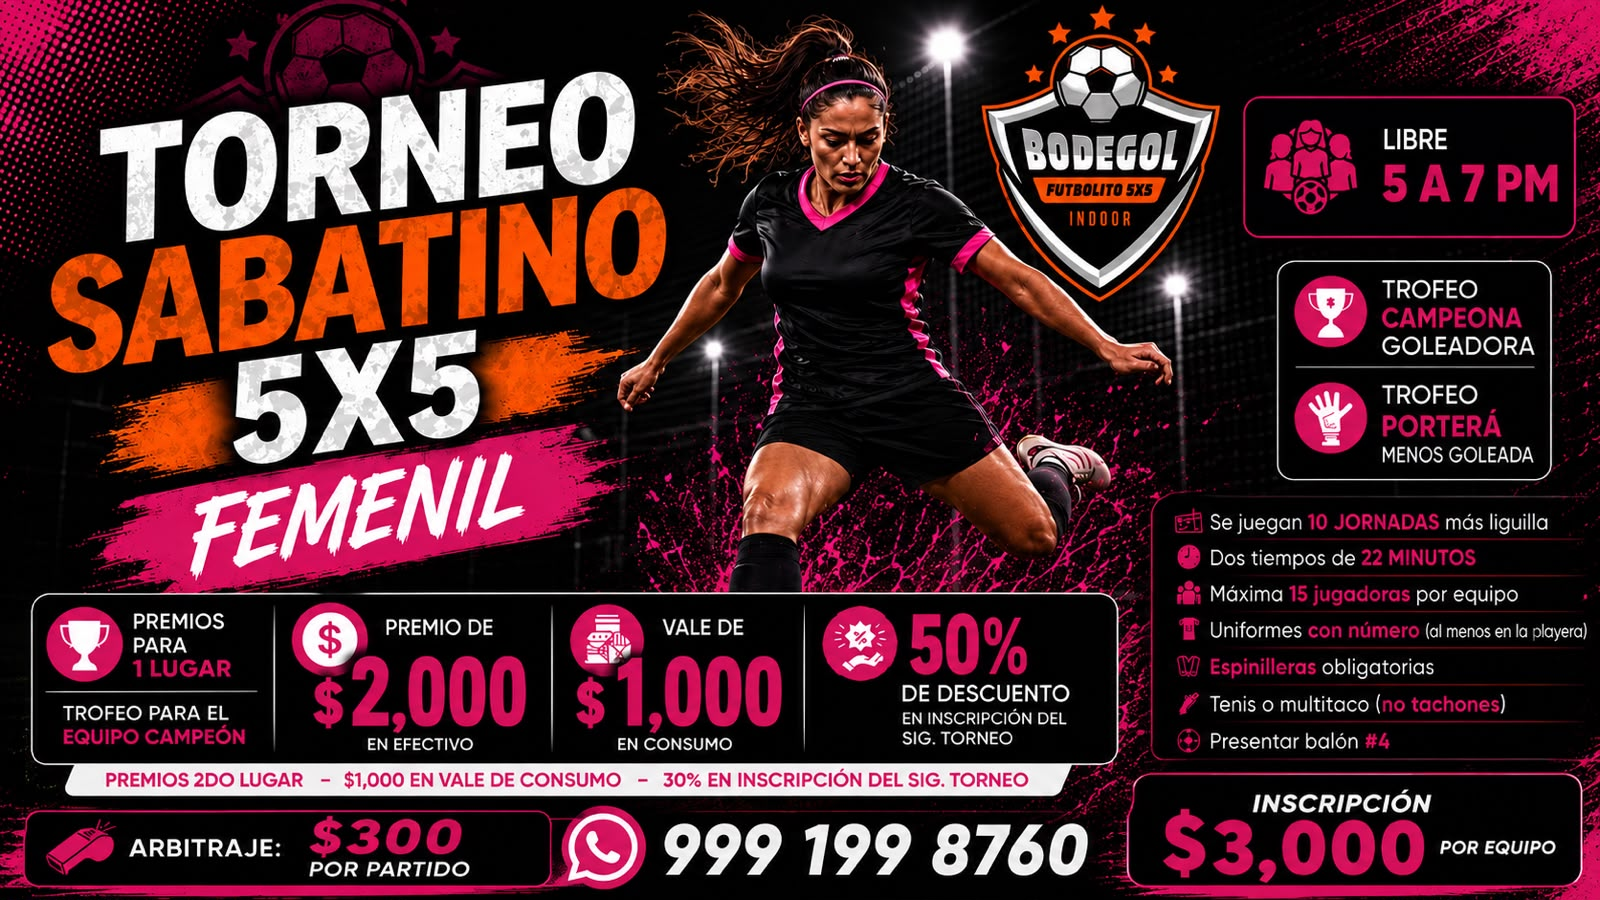
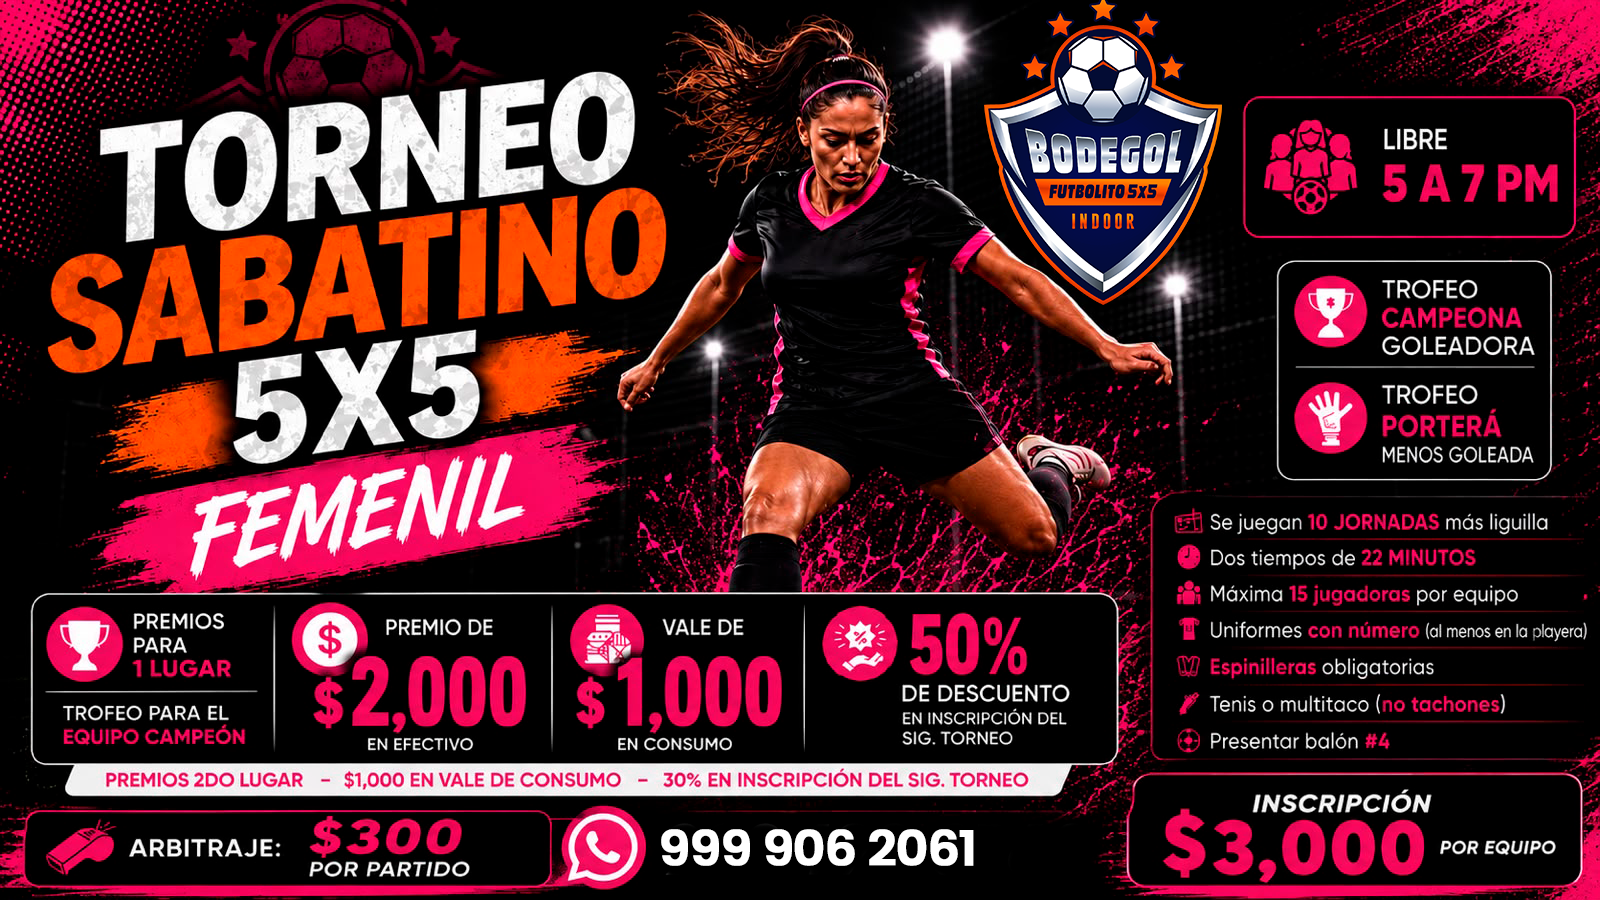
cambio de imagenes

diff --git a/src/pages/TorneoVeteranosPage.jsx b/src/pages/TorneoVeteranosPage.jsx
@@ -4,7 +4,7 @@ import SEO from '@/components/ui/SEO'
 import Button from '@/components/buttons/Button'
 import { buildWhatsAppUrl } from '@/utils/format'
 
-const WHATSAPP_URL = buildWhatsAppUrl('529991998760', 'Información para el torneo de veteranos')
+const WHATSAPP_URL = buildWhatsAppUrl('529999062061', 'Información para el torneo de veteranos')
 
 const prizes = [
   'Primer lugar: $2,000 en efectivo y $1,000 en consumo',
@@ -65,7 +65,7 @@ export default function TorneoVeteranosPage() {
               <Button as="a" href={WHATSAPP_URL} target="_blank" rel="noopener noreferrer" icon={MessageCircle} size="lg" fullWidth className="mt-7">
                 Información para el torneo de veteranos
               </Button>
-              <a href="tel:+529991998760" className="mt-4 block text-center font-ui text-sm font-semibold text-content-secondary hover:text-primary">999 199 8760</a>
+              <a href="tel:+529999062061" className="mt-4 block text-center font-ui text-sm font-semibold text-content-secondary hover:text-primary">999 906 2061</a>
             </div>
           </div>
         </section>

diff --git a/src/pages/TorneoFemenilPage.jsx b/src/pages/TorneoFemenilPage.jsx
@@ -4,7 +4,7 @@ import SEO from '@/components/ui/SEO'
 import Button from '@/components/buttons/Button'
 import { buildWhatsAppUrl } from '@/utils/format'
 
-const WHATSAPP_URL = buildWhatsAppUrl('529991998760', 'Información para el torneo femenil')
+const WHATSAPP_URL = buildWhatsAppUrl('529999062061', 'Información para el torneo femenil')
 
 const tournamentDetails = [
   '10 jornadas más liguilla',
@@ -75,7 +75,7 @@ export default function TorneoFemenilPage() {
               <Button as="a" href={WHATSAPP_URL} target="_blank" rel="noopener noreferrer" icon={MessageCircle} size="lg" fullWidth className="mt-7">
                 Información para el torneo femenil
               </Button>
-              <a href="tel:+529991998760" className="mt-4 block text-center font-ui text-sm font-semibold text-content-secondary hover:text-primary">999 199 8760</a>
+              <a href="tel:+529999062061" className="mt-4 block text-center font-ui text-sm font-semibold text-content-secondary hover:text-primary">999 906 2061</a>
             </div>
           </div>
         </section>

diff --git a/src/components/promotions/TournamentPopup.jsx b/src/components/promotions/TournamentPopup.jsx
@@ -7,7 +7,7 @@ import { buildWhatsAppUrl } from '@/utils/format'
 import { useScrollLock } from '@/hooks/useScrollLock'
 
 const SESSION_KEY = 'bodegol:torneo-veteranos-35:v1'
-const WHATSAPP_URL = buildWhatsAppUrl('529991998760', 'Información para el torneo de veteranos')
+const WHATSAPP_URL = buildWhatsAppUrl('529999062061', 'Información para el torneo de veteranos')
 
 export default function TournamentPopup() {
   const [open, setOpen] = useState(false)
